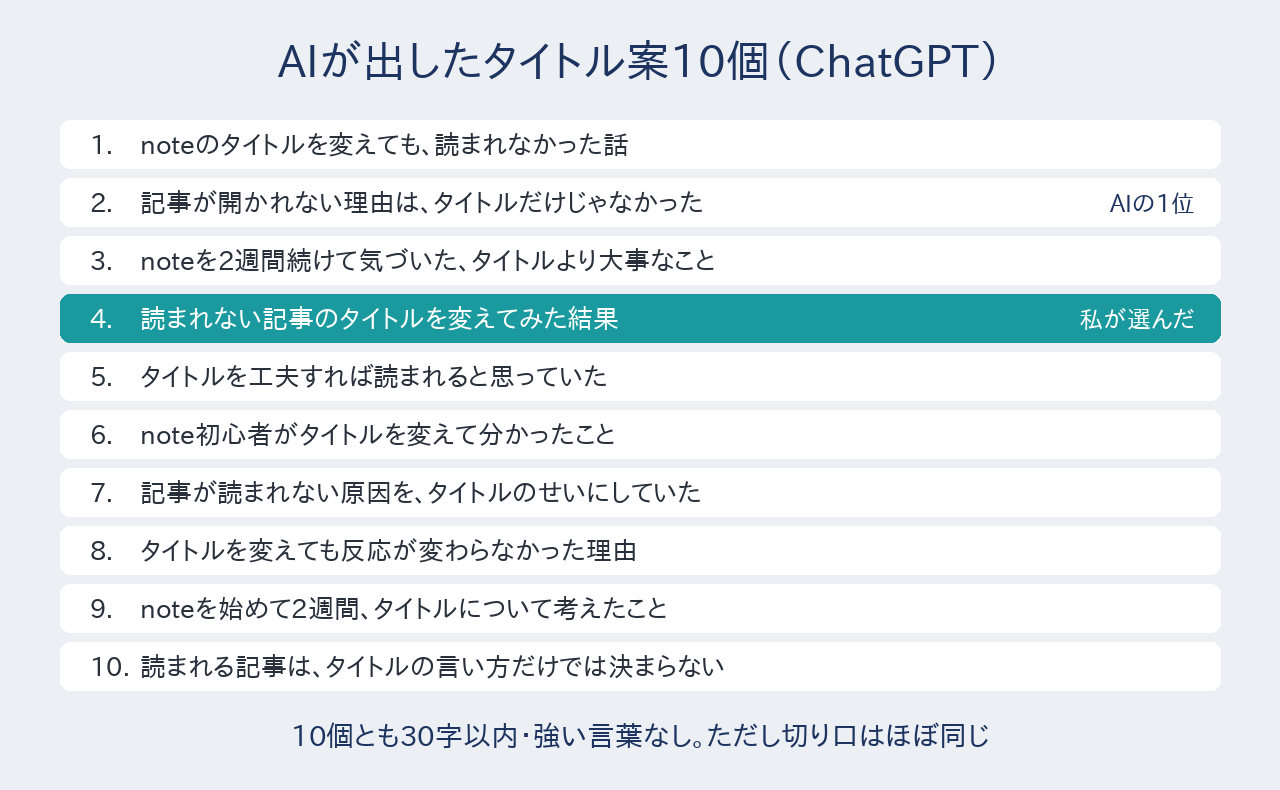
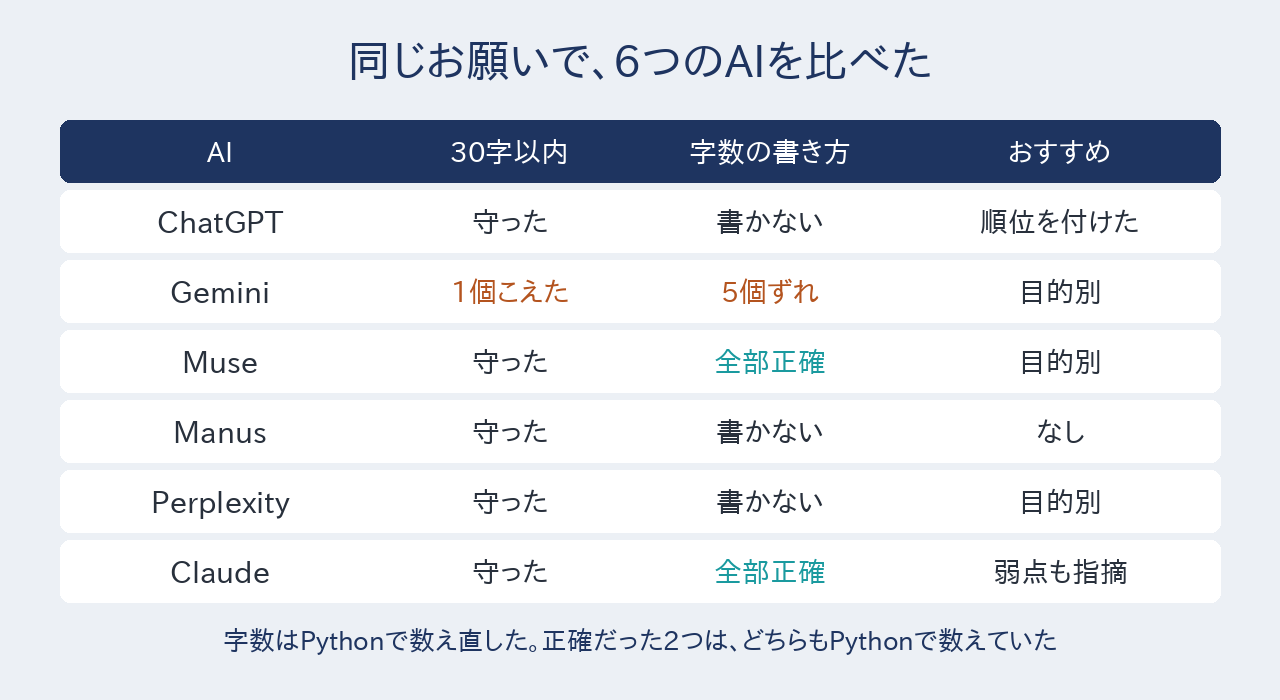
No.13：6つのAI版に書き直し、タイトルF、図を更新
Claude-Session: https://claude.ai/code/session_013AsTj4YgXtdFyZCq64SSRW

diff --git a/note-threads-ai-team/drafts/images/make_article13_figs.py b/note-threads-ai-team/drafts/images/make_article13_figs.py
@@ -1,44 +1,52 @@
 from PIL import Image, ImageDraw, ImageFont
 F = "/usr/share/fonts/opentype/ipafont-gothic/ipagp.ttf"
-NAVY, TEAL, LG, WHITE, INK = (30, 52, 96), (26, 154, 159), (236, 240, 245), (255, 255, 255), (40, 48, 60)
+NAVY, TEAL, LG, WHITE, INK, WARN = (30, 52, 96), (26, 154, 159), (236, 240, 245), (255, 255, 255), (40, 48, 60), (180, 84, 31)
 def f(s): return ImageFont.truetype(F, s)
 OUT = "/home/user/-/note-threads-ai-team/drafts/images/"
-T = ["noteのタイトルを変えても、読まれなかった話", "記事が開かれない理由は、タイトルだけじゃなかった",
-     "noteを2週間続けて気づいた、タイトルより大事なこと", "読まれない記事のタイトルを変えてみた結果",
-     "タイトルを工夫すれば読まれると思っていた", "note初心者がタイトルを変えて分かったこと",
-     "記事が読まれない原因を、タイトルのせいにしていた", "タイトルを変えても反応が変わらなかった理由",
-     "noteを始めて2週間、タイトルについて考えたこと", "読まれる記事は、タイトルの言い方だけでは決まらない"]
-W = 1280; H = 130 + 10 * 58 + 80
+
+# 図1：6つのAIの比べ
+rows = [("ChatGPT", "守った", "書かない", "順位を付けた"),
+        ("Gemini", "1個こえた", "5個ずれ", "目的別"),
+        ("Muse", "守った", "全部正確", "目的別"),
+        ("Manus", "守った", "書かない", "なし"),
+        ("Perplexity", "守った", "書かない", "目的別"),
+        ("Claude", "守った", "全部正確", "弱点も指摘")]
+W = 1280; H = 140 + 70 * 7 + 70
 im = Image.new("RGB", (W, H), LG); d = ImageDraw.Draw(im)
-d.text((W // 2, 60), "AIが出したタイトル案10個（ChatGPT）", font=f(44), fill=NAVY, anchor="mm")
+d.text((W // 2, 60), "同じお願いで、6つのAIを比べた", font=f(44), fill=NAVY, anchor="mm")
+xs = [60, 380, 640, 900, 1220]
 y = 120
-for i, t in enumerate(T, 1):
-    mine = i == 4; ai = i == 2
-    d.rounded_rectangle((60, y, 1220, y + 48), 10, fill=TEAL if mine else WHITE)
-    col = WHITE if mine else INK
-    d.text((90, y + 24), f"{i}.", font=f(26), fill=col, anchor="lm")
-    d.text((140, y + 24), t, font=f(26), fill=col, anchor="lm")
-    tag = "私が選んだ" if mine else ("AIの1位" if ai else "")
-    if tag:
-        d.text((1195, y + 24), tag, font=f(24), fill=WHITE if mine else NAVY, anchor="rm")
-    y += 58
-d.text((W // 2, y + 35), "10個とも30字以内・強い言葉なし。ただし切り口はほぼ同じ", font=f(28), fill=NAVY, anchor="mm")
+d.rounded_rectangle((60, y, 1220, y + 62), 10, fill=NAVY)
+for i, h in enumerate(["AI", "30字以内", "字数の書き方", "おすすめ"]):
+    d.text(((xs[i] + xs[i + 1]) // 2, y + 31), h, font=f(28), fill=WHITE, anchor="mm")
+y += 70
+for r in rows:
+    d.rounded_rectangle((60, y, 1220, y + 62), 10, fill=WHITE)
+    for i, c in enumerate(r):
+        col = WARN if c in ("1個こえた", "5個ずれ") else (TEAL if c == "全部正確" else INK)
+        d.text(((xs[i] + xs[i + 1]) // 2, y + 31), c, font=f(28 if i else 30), fill=col, anchor="mm")
+    y += 70
+d.text((W // 2, y + 30), "字数はPythonで数え直した。正確だった2つは、どちらもPythonで数えていた", font=f(26), fill=NAVY, anchor="mm")
 im.save(OUT + "article13_fig1_titles.png")
 
-H = 600
+# 図2：私が選んだ6つ
+picks = [("ChatGPT", "読まれない記事のタイトルを変えてみた結果"),
+         ("Gemini", "記事のタイトルを変えてみた結果と、そこから分かったこと"),
+         ("Muse", "開かれない記事、タイトルを変えて試した結果"),
+         ("Manus", "読まれない記事のタイトルを見直した記録"),
+         ("Perplexity", "開かれない記事のタイトルを変えてみたら"),
+         ("Claude", "note初心者の小さな実験：タイトルを変えてみた")]
+H = 140 + 76 * 6 + 80
 im = Image.new("RGB", (W, H), LG); d = ImageDraw.Draw(im)
-d.text((W // 2, 60), "AIのおすすめと、私が選んだもの", font=f(44), fill=NAVY, anchor="mm")
-cards = [("AIのおすすめ1位", "記事が開かれない理由は、\nタイトルだけじゃなかった", "理由：続きが気になる", NAVY),
-         ("私が選んだもの", "読まれない記事の\nタイトルを変えてみた結果", "理由：実体験が伝わる", TEAL)]
-x = 80
-for head, body, why, col in cards:
-    d.rounded_rectangle((x, 130, x + 540, 500), 20, fill=WHITE, outline=col, width=5)
-    d.rounded_rectangle((x, 130, x + 540, 210), 20, fill=col)
-    d.rectangle((x, 180, x + 540, 210), fill=col)
-    d.text((x + 270, 170), head, font=f(34), fill=WHITE, anchor="mm")
-    d.multiline_text((x + 270, 320), body, font=f(34), fill=INK, anchor="mm", align="center", spacing=16)
-    d.text((x + 270, 450), why, font=f(30), fill=col, anchor="mm")
-    x += 580
-d.text((W // 2, 550), "どれを選ぶかは、そのnoteが何を大事にしているかで決まる", font=f(28), fill=NAVY, anchor="mm")
+d.text((W // 2, 60), "60個の中から、私が選んだ6つ", font=f(44), fill=NAVY, anchor="mm")
+y = 120
+for ai, t in picks:
+    d.rounded_rectangle((60, y, 1220, y + 66), 12, fill=WHITE)
+    d.rounded_rectangle((60, y, 290, y + 66), 12, fill=TEAL)
+    d.rectangle((270, y, 290, y + 66), fill=TEAL)
+    d.text((175, y + 33), ai, font=f(28), fill=WHITE, anchor="mm")
+    d.text((320, y + 33), t, font=f(28), fill=INK, anchor="lm")
+    y += 76
+d.text((W // 2, y + 35), "6つとも「やってみた」「試した結果」「見直した記録」の形だった", font=f(30), fill=NAVY, anchor="mm")
 im.save(OUT + "article13_fig2_choice.png")
 print("ok")

diff --git a/note-threads-ai-team/drafts/2026-11-29_article13_package.md b/note-threads-ai-team/drafts/2026-11-29_article13_package.md
@@ -1,8 +1,18 @@
 # No.13 パッケージ（11/29（日）公開予定）
 - 本人の言葉（2026-11-28）：④を選んだ。理由「実体験が伝わるから」
 - 材料：drafts/notes/article13_material.md（ChatGPT共有 https://chatgpt.com/s/t_6b0a49ab3480819194047b2490583149）
-- タイトル案：A AIにタイトル案を10個出してもらったら、全部同じ方向だった／B AIのおすすめ1位と、私が選んだタイトルは違った／C AIにタイトル案を10個出してもらい、1つ選んでみた
-- 本文：drafts/2026-11-29_article13_note_paste.txt（約3,010字）
+- 6つのAI（ChatGPT・Gemini・Muse・Manus・Perplexity・新しい会話のClaude）に同じお願い、計60個
+- タイトル決定（2026-11-28 本人F）：AIのタイトル案60個から、私が選んだ6つの共通点
+- 訂正：Claudeが一時「AIのおすすめと1つも重ならなかった」と誤って説明（実際はChatGPTの2位④・Perplexityの記録型6と重なる）→タイトル案Dを撤回
+- 本文：drafts/2026-11-29_article13_note_paste.txt（約3,110字、6つのAI版に書き直し）
 - 図：images/article13_fig1_titles.png（【画像：図1】）、images/article13_fig2_choice.png（【画像：図2】）
 - 前回リンク：No.11 https://note.com/honest_sorrel248/n/n27833fd9e747
-- Claudeの補足で要確認：「選んだ理由を言葉にしたことで、自分がnoteで何を大事にしているかがはっきりした」（本人の実感か）
+
+
+## Museに送る指示文
+note記事の見出し画像。横長。
+中央に大きく日本語の文字「AIのタイトル案60個から、私が選んだ6つの共通点」。
+その下に小さく「実録・検証編」。
+背景は紺色、文字は白、アクセントに青緑を少し。
+シンプルでフラットなデザイン。右下に小さなアイコン。
+金色・炎・お金・キラキラは入れない。人物の顔は描かない。ロボットは描かない。
